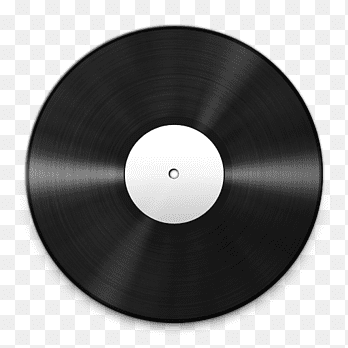
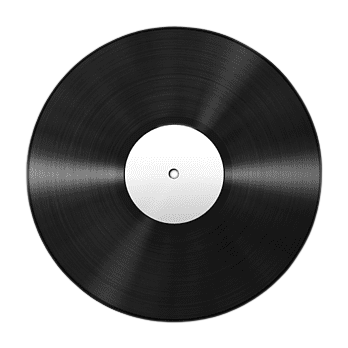
disco

diff --git a/styles/cardapio.css b/styles/cardapio.css
@@ -193,9 +193,9 @@ body {
 }
 
 .disco{
-    width: 9rem;
-    height: 9rem;
-    background: url(../images/svg/vynil.svg) center center no-repeat;
+    width: 10rem;
+    height: 11rem;
+    background: url(../images/vynil.png) center center no-repeat;
     background-size: cover ;
     position: absolute;
     z-index: 1;
